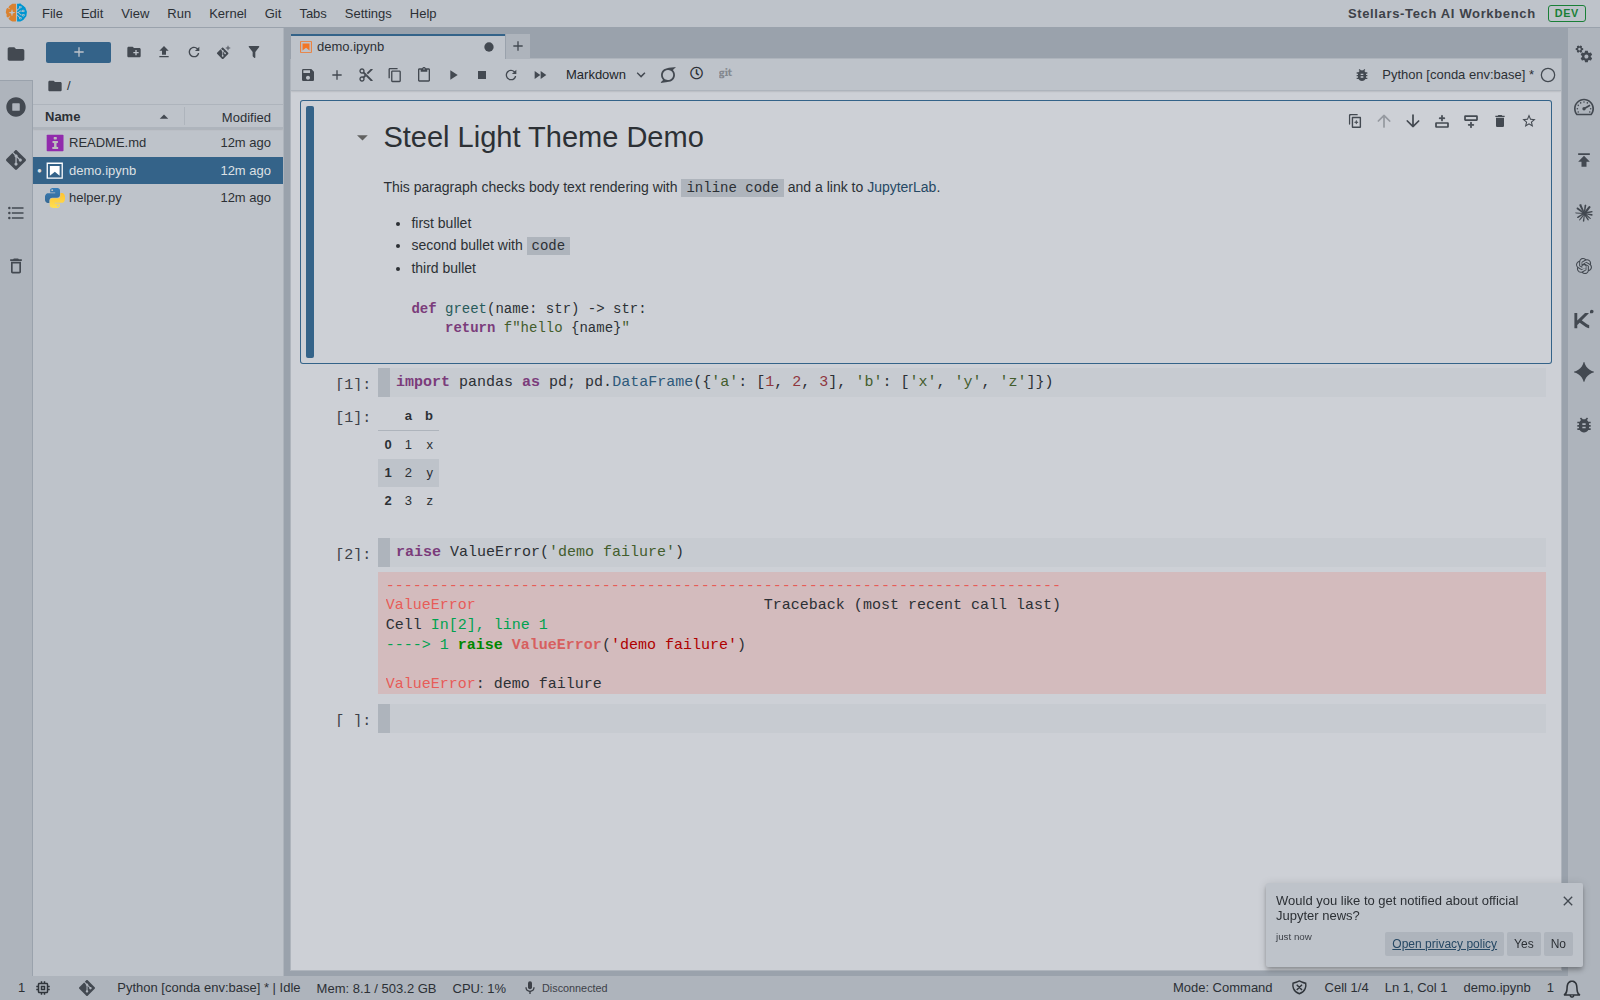
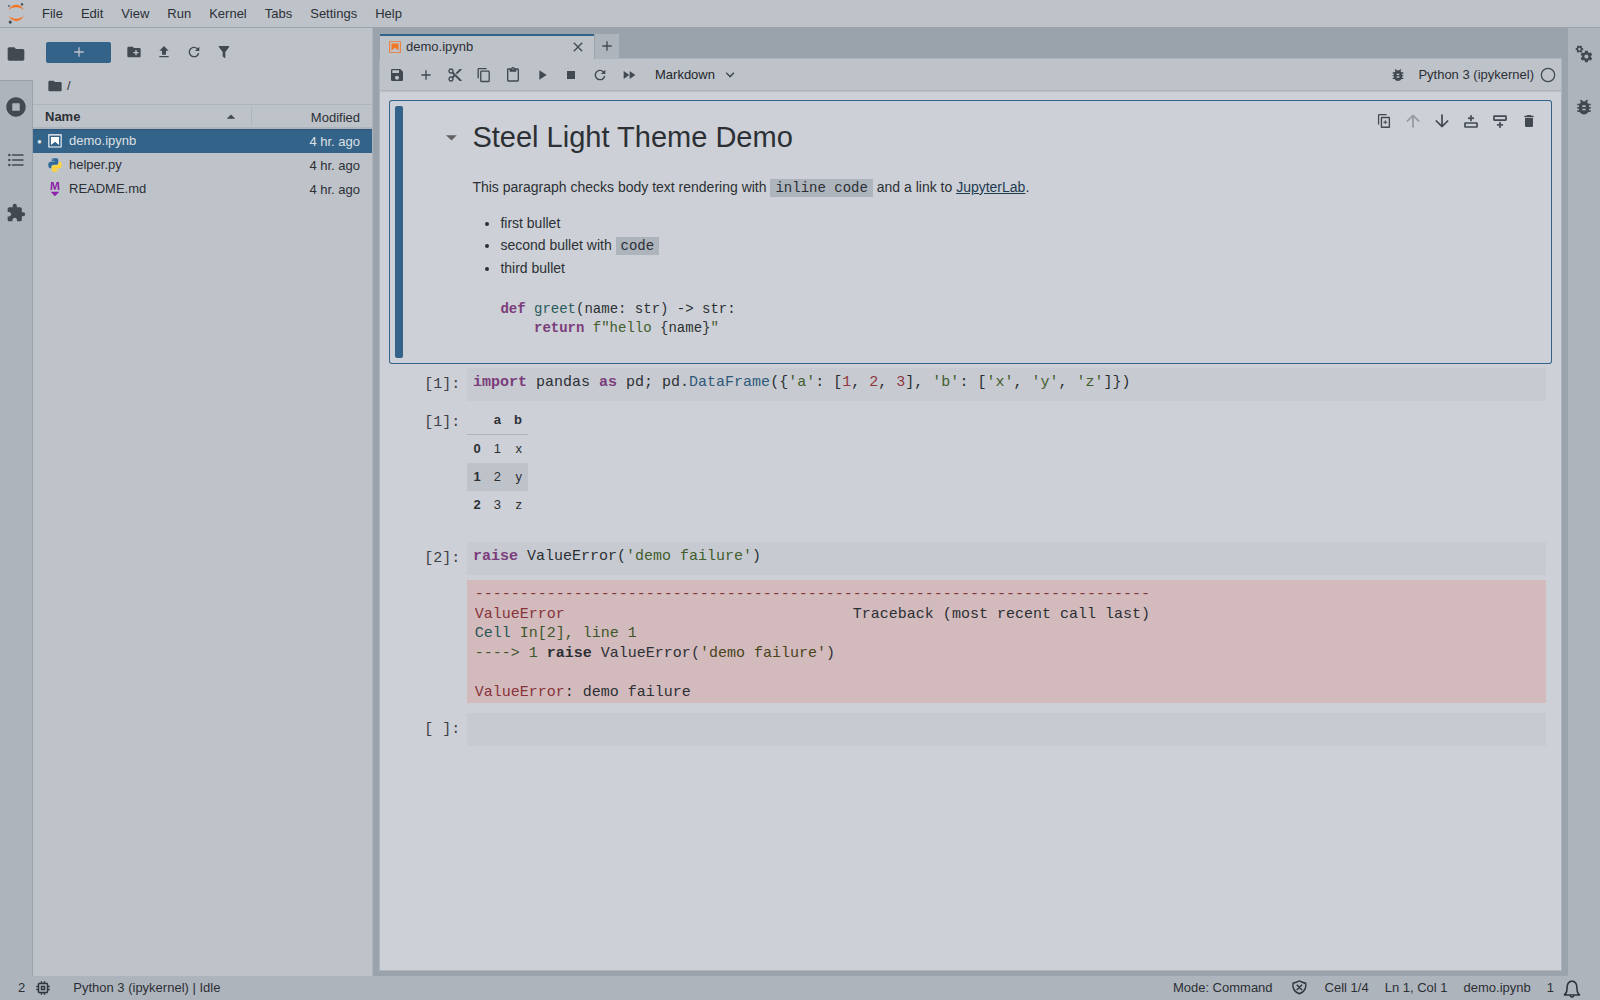
fix: legible ansi output, colour-blind-safe alert panels, muted destructive buttons, main-branch ci
Core renders 256-colour and 24-bit SGR as inline styles with no colour
class, so class-based ANSI rules could not reach them and value errors
washed out against the light canvas. An attribute selector scoped to
stderr repaints only inline foregrounds, leaving syntax colours intact.

Alert panels are separated by lightness rather than hue: the previous
candidate was isoluminant and collapsed success, warning and danger into
one block under a deuteranopia simulation. The wider spread opened a
markdown-link contrast failure inside alert panels, closed at the token.

The destructive-button chain now draws from the muted error scale, and
an inherited warn-colour override that painted Settings restore at
1.37:1 is removed.

Galata snapshots were flaky on the file browser's relative Modified
column and on host-dependent teardown; a narrow mask plus serverFiles
fixes both. CI now triggers on main rather than master.

diff --git a/style/custom.css b/style/custom.css
@@ -11,6 +11,69 @@
 fix: annoying problem of almost invisible text in stderr */
 .jp-RenderedText pre .ansi-yellow-bg {
   background-color: #c6a44a; /* hsl(43, 52%, 53%), muted yellow for dark text, the dark theme uses #b52318 under light text */
+
+  /* the theme replaced core's yellow background, so core's foregrounds were not tuned
+     against this one; the content font colour reads 6.4:1 on it */
+  color: var(--jp-content-font-color0);
+}
+
+/* galaxalabs customisation - core hardcodes the ANSI foregrounds for white; darkened to >= 4.5:1 on the error background.
+ * These class rules cover the class-based colours; black is left to core, whose #3e424d and #282c36
+ * already read above 5:1 here. The inline 256-colour spans are covered by the rule below them. */
+.jp-RenderedText pre .ansi-red-fg:not([class*='-bg']),
+.jp-RenderedText pre .ansi-red-intense-fg:not([class*='-bg']) {
+  color: #87333a; /* hsl(355, 45%, 36%), the --jp-mirror-editor-number-color hue, 4.5:1 on the error background */
+}
+
+.jp-RenderedText pre .ansi-green-fg:not([class*='-bg']),
+.jp-RenderedText pre .ansi-green-intense-fg:not([class*='-bg']) {
+  color: #3e562a; /* hsl(93, 34%, 25%), the --jp-mirror-editor-string-color hue, 4.5:1 on the error background */
+}
+
+.jp-RenderedText pre .ansi-yellow-fg:not([class*='-bg']),
+.jp-RenderedText pre .ansi-yellow-intense-fg:not([class*='-bg']) {
+  color: #4a441c; /* hsl(52, 45%, 20%), the .CodeMirror-guttermarker value, 5.4:1 on the error background */
+}
+
+.jp-RenderedText pre .ansi-blue-fg:not([class*='-bg']),
+.jp-RenderedText pre .ansi-blue-intense-fg:not([class*='-bg']) {
+  color: #2c5175; /* hsl(210, 45%, 32%), the --jp-mirror-editor-meta-color hue, 4.5:1 on the error background */
+}
+
+.jp-RenderedText pre .ansi-magenta-fg:not([class*='-bg']),
+.jp-RenderedText pre .ansi-magenta-intense-fg:not([class*='-bg']) {
+  color: #743974; /* hsl(300, 34%, 34%), the --jp-mirror-editor-keyword-color hue, 4.5:1 on the error background */
+}
+
+.jp-RenderedText pre .ansi-cyan-fg:not([class*='-bg']),
+.jp-RenderedText pre .ansi-cyan-intense-fg:not([class*='-bg']) {
+  color: #295656; /* hsl(180, 35%, 25%), the --jp-mirror-editor-atom-color hue, 4.5:1 on the error background */
+}
+
+/* galaxalabs customisation - core's white and intense-white foregrounds are a light beige
+ * tuned for a white page and read at 1.2:1 and 1.6:1 here. Mapped onto the neutral text
+ * ramp with the intensity order kept (intense is the darker, more prominent one). Every
+ * foreground rule in this block is scoped with :not([class*='-bg']) so a span that also
+ * carries an ANSI background class keeps core's values, which were tuned against it. */
+.jp-RenderedText pre .ansi-white-fg:not([class*='-bg']) {
+  color: var(--jp-content-font-color2);
+}
+
+.jp-RenderedText pre .ansi-white-intense-fg:not([class*='-bg']) {
+  color: var(--jp-content-font-color0);
+}
+
+/* galaxalabs customisation - IPython emits 256-colour SGR for the echoed source line,
+ * which core renders as an inline `color: rgb(...)` on a span carrying no ansi class
+ * (rendermime renderers.js:995-1000), so no class rule can reach it; measured 2.0:1 on
+ * the error background. An author !important declaration is the only cascade route to
+ * an inline style. Scoped to the stderr mime type so 256-colour stdout keeps its hue,
+ * and to `style` values that begin with `color:` and carry no background, so a span with an ANSI
+ * background keeps core's tuned pair - the same guard the class rules above use. */
+.jp-RenderedText[data-mime-type='application/vnd.jupyter.stderr']
+  pre
+  span[style^='color:']:not([style*='background']) {
+  color: var(--jp-content-font-color1) !important;
 }
 
 /* stylelint-disable selector-class-pattern */
@@ -86,29 +149,6 @@ fix: annoying problem of almost invisible text in stderr */
   border: none;
 }
 
-/* override - settings restore button */
-.jp-SettingsHeader-buttonbar > .jp-RestoreButton {
-  color: var(--jp-content-link-color);
-}
-
-/* override - output area scrolling fixes - related to output area 
- * showing unexpected and unwanted scrollbar */
-.jp-OutputArea-child,
-.jp-OutputArea-output,
-.jp-Cell-outputArea,
-.jp-OutputArea-output.jp-OutputArea-executeResult {
-  max-height: none !important;
-  overflow: visible !important;
-}
-
-.jp-Cell.jp-mod-outputsScrolled .jp-Cell-outputArea {
-  max-height: none !important;
-}
-
-.jp-OutputArea {
-  overflow: visible !important;
-}
-
 /* override - height of the text in launcher card */
 .jp-LauncherCard-label p {
   line-height: 1.2em;
@@ -138,6 +178,22 @@ fix: annoying problem of almost invisible text in stderr */
 /* override - suppress stuck pressed-state shadow on file browser toolbar buttons */
 .jp-FileBrowser-toolbar jp-button[aria-pressed='true'] {
   box-shadow: none !important;
+}
+
+/* galaxalabs customisation - rendermime sets text-decoration none on links, so a link in a
+ * markdown cell is signalled by colour alone at 1.4:1 from body text; no colour satisfies both
+ * 4.5:1 on the page and 3:1 against body text, so the affordance is the underline. */
+.jp-RenderedHTMLCommon a:link,
+.jp-RenderedHTMLCommon a:visited {
+  text-decoration: underline;
+}
+
+/* galaxalabs customisation - core signals a disabled menu command with --jp-ui-font-color3
+ * alone, which has to stay dark enough to clear 4.5:1 and therefore cannot step far from the
+ * enabled colour. Italic is the non-colour affordance, so the signal costs no contrast. */
+.lm-Menu-item.lm-mod-disabled,
+.lm-MenuBar-item.lm-mod-disabled {
+  font-style: italic;
 }
 
 /* EOF */

diff --git a/style/variables.css b/style/variables.css
@@ -205,8 +205,12 @@ darkened only as far as contrast on the gray requires.
   --jp-content-font-color1: #2c3035; /* code, galaxalabs customisation kept equal to the ui font */
   --jp-content-font-color2: #3d4148; /* galaxalabs customisation, 4.5:1 on layout2 */
   --jp-content-font-color3: #42464d; /* galaxalabs customisation, 4.5:1 on layout2 */
-  --jp-content-link-color: #264864; /* brand hue 207, 4.5:1 on layout2, was --md-blue-900 */
-  --jp-content-link-visited-color: #632e7a; /* --md-purple-700 hue darkened for 4.5:1 on layout2 */
+  --jp-content-link-color: #1f3b52; /* brand hue; core does not repaint links inside an
+     alert panel, so this has to clear 4.5:1 on the darkest one (error-color3) as well as on
+     the page - 4.9:1 and 7.5:1 */
+  --jp-content-link-hover-color: #152837; /* galaxalabs customisation - the underline is
+     permanent now, so hover needs its own signal; a visible darkening from the resting link */
+  --jp-content-link-visited-color: #512664; /* same floor as the resting link */
   --jp-content-font-family:
     -apple-system, blinkmacsystemfont, 'Segoe UI', helvetica, arial, sans-serif,
     'Apple Color Emoji', 'Segoe UI Emoji', 'Segoe UI Symbol';
@@ -279,22 +283,31 @@ darkened only as far as contrast on the gray requires.
   --jp-accent-color3: var(--md-green-100);
 
   /* State colors (warn, error, success, info) */
-  --jp-warn-color0: var(--md-orange-900);
-  --jp-warn-color1: var(--md-orange-700);
-  --jp-warn-color2: var(--md-orange-300);
-  --jp-warn-color3: var(--md-orange-100);
-  --jp-error-color0: var(--md-red-900);
-  --jp-error-color1: var(--md-red-700);
-  --jp-error-color2: var(--md-red-300);
-  --jp-error-color3: var(--md-red-100);
-  --jp-success-color0: var(--md-green-900);
-  --jp-success-color1: var(--md-green-700);
-  --jp-success-color2: var(--md-green-300);
-  --jp-success-color3: var(--md-green-100);
-  --jp-info-color0: var(--md-cyan-900);
-  --jp-info-color1: var(--md-cyan-700);
-  --jp-info-color2: var(--md-cyan-300);
-  --jp-info-color3: var(--md-cyan-100);
+
+  /* galaxalabs customisation - color0 and color1 muted to the palette rule (hue kept, saturation
+     capped, 4.5:1 / 6:1 on layout0). */
+
+  /* galaxalabs customisation - color2 and color3 paint the four markdown callouts. Both are
+     spread in CIELAB lightness (panels 79 / 75.5 / 72 / 68.5, borders 52 / 44 / 36 / 28) so the
+     four panels stay separable when hue is unavailable: under simulated deuteranopia they read
+     as a light-to-dark ladder instead of three identical khaki blocks. Every panel sits below
+     the page luminance, and color0 clears 4.5:1 on its own panel. */
+  --jp-warn-color0: #643c26; /* hsl(21, 45%, 27%), --md-orange-900 hue, 6.1:1 on layout0 */
+  --jp-warn-color1: #76522d; /* hsl(30, 45%, 32%), --md-orange-700 hue, 4.5:1 on layout0 */
+  --jp-warn-color2: #967656; /* alert border, CIELAB L* 52, 2.4:1 on color3 */
+  --jp-warn-color3: #cfc2b3; /* alert panel, CIELAB L* 79.1 */
+  --jp-error-color0: #672727; /* alert and icon text, 4.6:1 on color3 */
+  --jp-error-color1: #983a3a; /* hsl(0, 45%, 41%), --md-red-700 hue, 4.5:1 on layout0 */
+  --jp-error-color2: #5f3737; /* alert border, CIELAB L* 28, 4.2:1 on color3 */
+  --jp-error-color3: #c29f9f; /* alert panel, CIELAB L* 68.6 */
+  --jp-success-color0: #1f5123; /* hsl(125, 45%, 22%), --md-green-900 hue, 6.0:1 on layout0 */
+  --jp-success-color1: #27632a; /* hsl(123, 43%, 27%), --md-green-700 hue, 4.7:1 on layout0 */
+  --jp-success-color2: #427344; /* alert border, CIELAB L* 44, 2.9:1 on color3 */
+  --jp-success-color3: #a0c3a1; /* alert panel, CIELAB L* 75.5 */
+  --jp-info-color0: #1e494e; /* alert and icon text, 4.6:1 on color3 */
+  --jp-info-color1: #276168; /* hsl(186, 45%, 28%), --md-cyan-700 hue, 4.5:1 on layout0 */
+  --jp-info-color2: #375a5f; /* alert border, CIELAB L* 36, 3.5:1 on color3 */
+  --jp-info-color3: #94b7bb; /* alert panel, CIELAB L* 72.1 */
 
   /* Cell specific styles */
 
@@ -382,13 +395,16 @@ darkened only as far as contrast on the gray requires.
     --jp-brand-color0
   ); /* galaxalabs customisation, added as of JL4.3, hover color for + button */
 
-  --jp-accept-color-active: var(
-    --jp-brand-color0
-  ); /* galaxalabs customisation, was --md-blue-900 */
+  --jp-accept-color-active: #1e3a50; /* the press step, 9 CIELAB L* below hover; core
+     styles hover and active separately and brand-color0 in both left them identical */
 
-  --jp-warn-color-normal: var(--md-red-700);
-  --jp-warn-color-hover: var(--md-red-800);
-  --jp-warn-color-active: var(--md-red-900);
+  /* galaxalabs customisation - the destructive-button chain kept stock Material red
+     while the error scale beside it was muted; repointed so Restart Kernel, Shut Down
+     and Delete match the theme. White label reads 7.0:1 on normal, 9.3:1 on active. */
+  --jp-warn-color-normal: var(--jp-error-color1);
+  --jp-warn-color-hover: var(--jp-error-color0);
+  --jp-warn-color-active: #4a1c1c; /* the press step, 7.9 CIELAB L* below hover; core styles
+     hover and active separately and they would otherwise be indistinguishable */
   --jp-reject-color-normal: var(--md-grey-600);
   --jp-reject-color-hover: var(--md-grey-700);
   --jp-reject-color-active: var(--md-grey-800);

diff --git a/ui-tests/tests/galaxalabs_jupyterlab_steel_light_theme.spec.ts b/ui-tests/tests/galaxalabs_jupyterlab_steel_light_theme.spec.ts
@@ -10,7 +10,20 @@ test.use({ autoGoto: false });
 
 const THEME_NAME = 'GalaxaLabs Steel Light Theme';
 
-const VARIABLES_CSS = path.join(__dirname, '..', '..', 'style', 'variables.css');
+// The file browser lists galata's per-test directories with relative "Modified" times
+// that differ between runs; two clean-venv runs an hour apart diverged past the 2 percent
+// tolerance. Hiding only that column keeps the row fills, the alternating stripe and the
+// selected-row highlight in frame and under test.
+const VOLATILE_COLUMN_HIDDEN =
+  '.jp-DirListing-itemModified { visibility: hidden; }';
+
+const VARIABLES_CSS = path.join(
+  __dirname,
+  '..',
+  '..',
+  'style',
+  'variables.css'
+);
 
 const NOTEBOOK = JSON.stringify({
   cells: [
@@ -130,7 +143,9 @@ function toHex(color: string): string {
     );
   }
   if (/^#[0-9a-f]{3}$/.test(value)) {
-    return '#' + value[1] + value[1] + value[2] + value[2] + value[3] + value[3];
+    return (
+      '#' + value[1] + value[1] + value[2] + value[2] + value[3] + value[3]
+    );
   }
   return value;
 }
@@ -173,6 +188,8 @@ test('should apply the theme to the launcher', async ({ page }) => {
   );
   expect(toHex(layoutColor1)).toEqual(themeLayoutColor1());
 
+  await page.addStyleTag({ content: VOLATILE_COLUMN_HIDDEN });
+
   expect(await page.screenshot({ fullPage: true })).toMatchSnapshot(
     'launcher.png'
   );
@@ -192,6 +209,8 @@ test('should render a notebook with the theme', async ({ page }) => {
   await page.theme.setTheme(THEME_NAME);
 
   await expect(page.locator('.jp-Notebook')).toBeVisible();
+
+  await page.addStyleTag({ content: VOLATILE_COLUMN_HIDDEN });
 
   expect(await page.screenshot({ fullPage: true })).toMatchSnapshot(
     'notebook.png'

diff --git a/ui-tests/playwright.config.js b/ui-tests/playwright.config.js
@@ -8,7 +8,12 @@ const BASE_URL = `http://localhost:${PORT}`;
 
 module.exports = {
   ...baseConfig,
-  use: { ...baseConfig.use, baseURL: BASE_URL },
+  // serverFiles 'on' keeps galata's per-test directories instead of deleting them at
+  // teardown. The delete fails on this workstation (send2trash cannot reach /.Trash-1000
+  // across devices) and succeeds on a GitHub runner, so leaving it at the default made the
+  // file-browser rows in both snapshots depend on the host. Keeping them is deterministic
+  // everywhere.
+  use: { ...baseConfig.use, baseURL: BASE_URL, serverFiles: 'on' },
   expect: {
     ...baseConfig.expect,
     toMatchSnapshot: { maxDiffPixelRatio: 0.02 }

diff --git a/.claude/JOURNAL.md b/.claude/JOURNAL.md
@@ -1,0 +1,11 @@
+# Claude Code Journal
+
+This journal tracks substantive work on documents, diagrams, and documentation content.
+
+---
+
+1. **Task - Initial Import Of GalaxaLabs Steel Light Theme** (v1.0.2): Built the light counterpart of the Steel Dark theme in the Win95 light-gray convention<br>
+    **Result**: Scaffolded from `jupyterlab_stellars_sublime_theme` as the light sibling of the GalaxaLabs Steel Dark theme, published as `galaxalabs_jupyterlab_steel_light_theme`. **Trigger**: the dark themes were hand-tuned to avoid afterimages for readers with vision issues, and a light workspace variant was wanted for the same reason - low-saturation surfaces, no neon accents, pastel rather than flashy. **Why Win95 light gray**: pure white backgrounds drive eye strain, so `--jp-layout-color0..3` sit on the Win95 light-gray ramp, held a few degrees into blue to preserve the Sublime Mariana lineage that separates Steel from the neutral-gray Concrete theme. Ported `style/variables.css` and `style/custom.css`, inverted the UI and content font-colour ramps, added galata `ui-tests` covering the launcher and a notebook rendering, and `.github/workflows/build.yml` for CI.
+
+2. **Task [Extended] - Legibility Pass On ANSI Output, Alert Panels And Destructive Buttons** (v1.0.8): Repaired the contrast failures an adversarial review found across traceback output, the four alert panels, the settings restore button and the galata suite<br>
+    **Result**: **Trigger**: yellow value-error text washed out in the README screenshot; a two-panel adversarial review (architect, ux expert, bug hunter) then surfaced further failures. JupyterLab core renders 16-colour SGR as `ansi-*-fg` classes but 256-colour and 24-bit SGR as inline `style="color: rgb(...)"`, which no class rule can reach - the remedy is the attribute selector `span[style^='color:']:not([style*='background'])` scoped to stderr output, repainting only inline foregrounds and leaving every class-based syntax colour intact (7.34:1). Class rules were scoped `:not([class*='-bg'])` so foreground overrides stop fighting background pairs, and `.ansi-yellow-bg` now carries its own foreground. Alert panels were retuned on a **lightness spread** rather than hue: an isoluminant candidate collapsed Success, Warning and Danger into three identical khaki blocks under a Vienot-1999 deuteranopia simulation, so panels now sit at CIELAB `L*` 79 / 75.5 / 72 / 68.5 with borders at 52 / 44 / 36 / 28, separable by lightness alone with no colour discrimination at all. Core does not repaint links inside `.alert`, so the wider spread opened a 3.99:1 markdown-link failure, closed at `--jp-content-link-color` and measured 4.85-6.66:1 inside all four panels in a running lab. The destructive-button chain was repointed to the muted error scale, and an inherited `--jp-warn-color-normal` override that painted Settings → Restore to Defaults at 1.37:1 was deleted, taking it to 5.28:1. Galata flakiness traced to the file browser's relative Modified column plus host-dependent teardown; fixed with a narrow `.jp-DirListing-itemModified` mask and `serverFiles: 'on'`, after which the suite passed 3/3 on two consecutive independent runs with zero send2trash failures. CI trigger corrected from `master` to `main`, and the README screenshot recaptured inside a clean venv holding only JupyterLab 4.6.3, pandas and the theme wheel.
